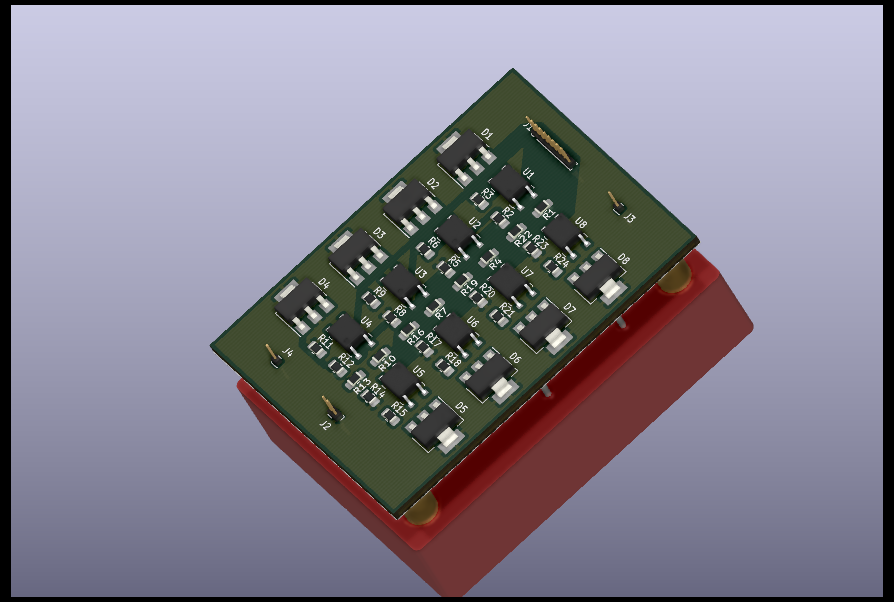
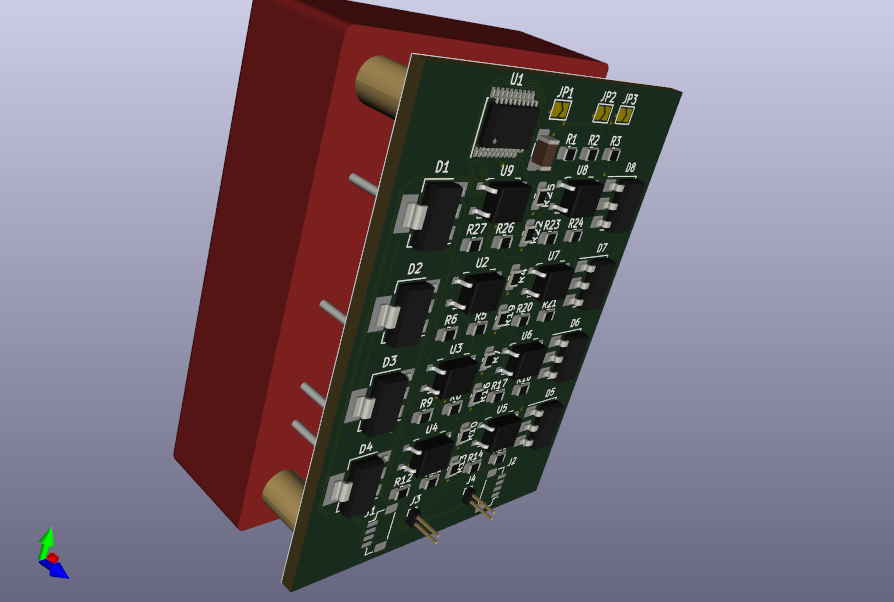
Updated.

diff --git a/README.md b/README.md
@@ -12,6 +12,10 @@ Display made of six eight-segment EL display units
 
 ![Driver Board view #2](afdDriver2.png)
 
+![Driver Board Top](afdOP2_top.png)
+
+![Driver Board Bottom](afdOP2_bottom.png)
+
 
 * Blue, Alien Font, Russian/Soviet Electroluminescent Display
 
@@ -168,3 +172,12 @@ Display made of six eight-segment EL display units
   - display unit dimensions, pin and threaded spacer locations
     * <think about doing a Fusion360 model>
     * ????
+
+* part cost estimates (Digikey)
+  - optoisolators: 100x @ $0.706 = $70.60
+  - io expanders: 10x @ $1.71    = $17.10
+  - triacs: 100x @ $0.405        = $40.50
+  - capacitors: 10x @ $?         = $?
+  - resistors: 30x + 240x @ $?   = $?
+  - connectors: 20x @ $?         = $? (optional)
+                                   ~$130
